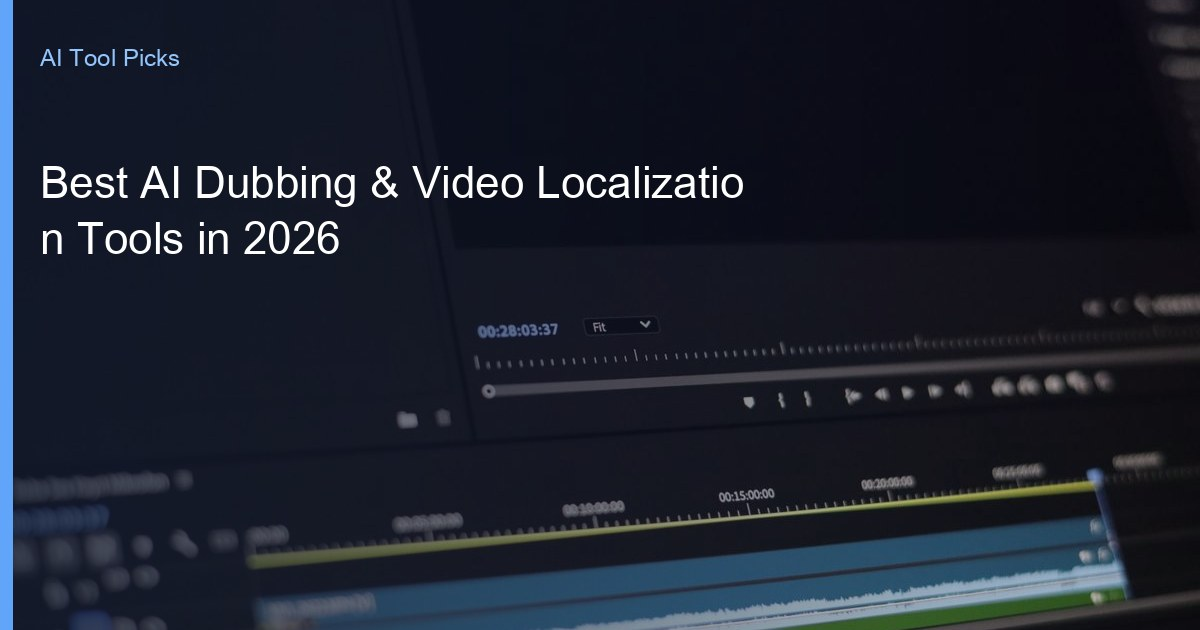
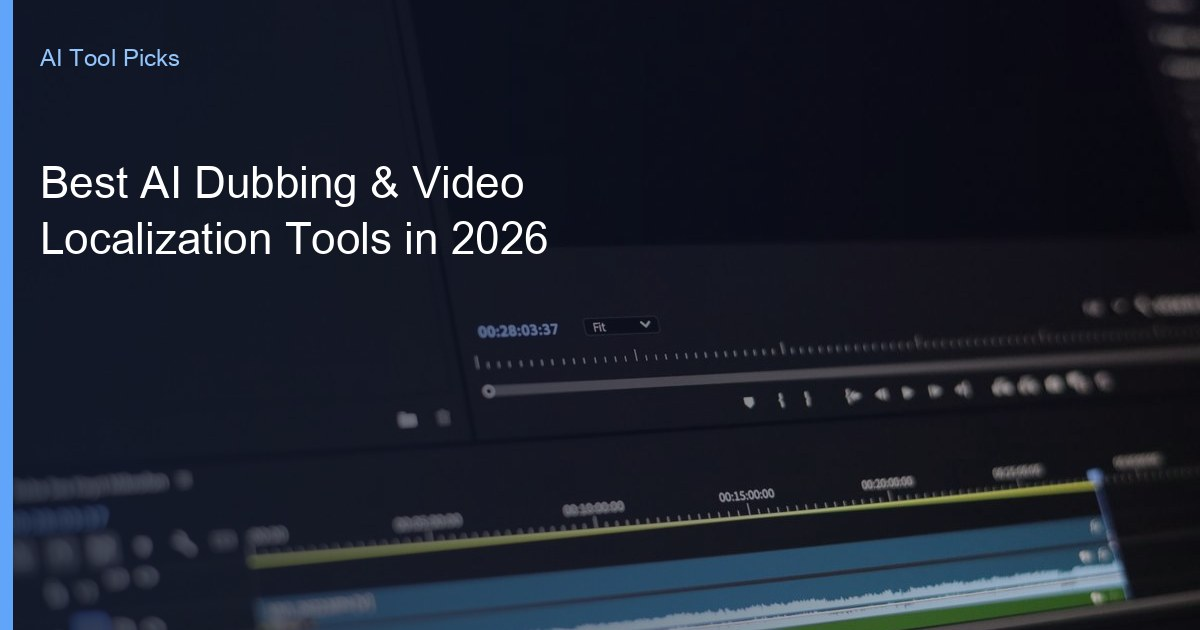
fix: hero image moved into article-content(below title, matches old articles); homepage cards reordered(newest first); og images regenerated with proper word-wrapping(no split words)

Changed region(s): [[0.0308, 0.2714, 0.6167, 0.4222]]

diff --git a/index-zh.html b/index-zh.html
@@ -184,7 +184,37 @@
                     </div>
                     <div class="pagination" id="pagination"></div>
                 </div>
-                <div class="category-grid" id="postsGrid">
+                <div class="category-grid" id="postsGrid"><article class="card post-card" data-category="video">
+                <a href="/posts/best-ai-dubbing-video-localization-tools-2026-zh.html" class="post-card-link">
+                    <div class="post-card-image">
+                        <img src="/images/og-best-ai-dubbing-video-localization-tools-2026-zh.jpg" alt="2026 年最佳 AI 配音与视频本地化工具" loading="lazy" onerror="this.style.display='none'">
+                    </div>
+                    <div class="post-card-content">
+                        <span class="post-card-tag">指南</span>
+                        <h3 class="post-card-title">2026 年最佳 AI 配音与视频本地化工具</h3>
+                        <time datetime="2026-08-05">2026 年 8 月 5 日</time>
+                        <span class="post-card-read-time"> · 约 10 分钟</span>
+                        <p class="post-card-excerpt">真正能帮你给视频配音、加字幕、做本地化、触达全球观众的 AI 工具，不用录音棚、不用配音员、不用翻译公司。</p>
+                        <span class="post-card-cta">阅读完整指南</span>
+                    </div>
+                </a>
+            </article>
+<article class="card post-card" data-category="writing">
+                <a href="/posts/best-ai-tools-for-newsletter-creators-2026-zh.html" class="post-card-link">
+                    <div class="post-card-image">
+                        <img src="/images/og-best-ai-tools-for-newsletter-creators-2026-zh.jpg" alt="2026 年最适合 Newsletter 创作者的 AI 工具" loading="lazy" onerror="this.style.display='none'">
+                    </div>
+                    <div class="post-card-content">
+                        <span class="post-card-tag">指南</span>
+                        <h3 class="post-card-title">2026 年最适合 Newsletter 创作者的 AI 工具</h3>
+                        <time datetime="2026-08-05">2026 年 8 月 5 日</time>
+                        <span class="post-card-read-time"> · 约 11 分钟</span>
+                        <p class="post-card-excerpt">真正能帮 Newsletter 创作者写得更快、调研更深、加上声音、并把每期内容改成视频的 AI 工具组合。</p>
+                        <span class="post-card-cta">阅读完整指南</span>
+                    </div>
+                </a>
+            </article>
+
 <article class="card post-card" data-category="productivity">
   <a href="/posts/chatbase-review-2026-zh.html" class="post-card-link">
     <div class="post-card-image">
@@ -1793,36 +1823,8 @@
                 </a>
             </article>
 
-            <article class="card post-card" data-category="writing">
-                <a href="/posts/best-ai-tools-for-newsletter-creators-2026-zh.html" class="post-card-link">
-                    <div class="post-card-image">
-                        <img src="/images/og-best-ai-tools-for-newsletter-creators-2026-zh.jpg" alt="2026 年最适合 Newsletter 创作者的 AI 工具" loading="lazy" onerror="this.style.display='none'">
-                    </div>
-                    <div class="post-card-content">
-                        <span class="post-card-tag">指南</span>
-                        <h3 class="post-card-title">2026 年最适合 Newsletter 创作者的 AI 工具</h3>
-                        <time datetime="2026-08-05">2026 年 8 月 5 日</time>
-                        <span class="post-card-read-time"> · 约 11 分钟</span>
-                        <p class="post-card-excerpt">真正能帮 Newsletter 创作者写得更快、调研更深、加上声音、并把每期内容改成视频的 AI 工具组合。</p>
-                        <span class="post-card-cta">阅读完整指南</span>
-                    </div>
-                </a>
-            </article>
-            <article class="card post-card" data-category="video">
-                <a href="/posts/best-ai-dubbing-video-localization-tools-2026-zh.html" class="post-card-link">
-                    <div class="post-card-image">
-                        <img src="/images/og-best-ai-dubbing-video-localization-tools-2026-zh.jpg" alt="2026 年最佳 AI 配音与视频本地化工具" loading="lazy" onerror="this.style.display='none'">
-                    </div>
-                    <div class="post-card-content">
-                        <span class="post-card-tag">指南</span>
-                        <h3 class="post-card-title">2026 年最佳 AI 配音与视频本地化工具</h3>
-                        <time datetime="2026-08-05">2026 年 8 月 5 日</time>
-                        <span class="post-card-read-time"> · 约 10 分钟</span>
-                        <p class="post-card-excerpt">真正能帮你给视频配音、加字幕、做本地化、触达全球观众的 AI 工具，不用录音棚、不用配音员、不用翻译公司。</p>
-                        <span class="post-card-cta">阅读完整指南</span>
-                    </div>
-                </a>
-            </article>
+            
+            
 </div>
         </section>
     </main>

diff --git a/index.html b/index.html
@@ -183,7 +183,37 @@
                     </div>
                     <div class="pagination" id="pagination"></div>
                 </div>
-                <div class="category-grid" id="postsGrid">
+                <div class="category-grid" id="postsGrid"><article class="card post-card" data-category="video">
+                <a href="/posts/best-ai-dubbing-video-localization-tools-2026.html" class="post-card-link">
+                    <div class="post-card-image">
+                        <img src="/images/og-best-ai-dubbing-video-localization-tools-2026.jpg" alt="Best AI Dubbing & Video Localization Tools in 2026" loading="lazy" onerror="this.style.display='none'">
+                    </div>
+                    <div class="post-card-content">
+                        <span class="post-card-tag">Guide</span>
+                        <h3 class="post-card-title">Best AI Dubbing & Video Localization Tools in 2026</h3>
+                        <time datetime="2026-08-05">August 5, 2026</time>
+                        <span class="post-card-read-time"> · 10 min read</span>
+                        <p class="post-card-excerpt">The AI tools that help you dub, subtitle, and localize video for global audiences without a studio, voice actor, or agency.</p>
+                        <span class="post-card-cta">Read full guide</span>
+                    </div>
+                </a>
+            </article>
+<article class="card post-card" data-category="writing">
+                <a href="/posts/best-ai-tools-for-newsletter-creators-2026.html" class="post-card-link">
+                    <div class="post-card-image">
+                        <img src="/images/og-best-ai-tools-for-newsletter-creators-2026.jpg" alt="Best AI Tools for Newsletter Creators in 2026" loading="lazy" onerror="this.style.display='none'">
+                    </div>
+                    <div class="post-card-content">
+                        <span class="post-card-tag">Guide</span>
+                        <h3 class="post-card-title">Best AI Tools for Newsletter Creators in 2026</h3>
+                        <time datetime="2026-08-05">August 5, 2026</time>
+                        <span class="post-card-read-time"> · 11 min read</span>
+                        <p class="post-card-excerpt">The AI stack that helps newsletter creators write faster, research smarter, add a voice, and repurpose issues into short video.</p>
+                        <span class="post-card-cta">Read full guide</span>
+                    </div>
+                </a>
+            </article>
+
 <article class="card post-card" data-category="productivity">
   <a href="/posts/chatbase-review-2026.html" class="post-card-link">
     <div class="post-card-image">
@@ -1700,36 +1730,8 @@
                 </a>
             </article>
 
-            <article class="card post-card" data-category="writing">
-                <a href="/posts/best-ai-tools-for-newsletter-creators-2026.html" class="post-card-link">
-                    <div class="post-card-image">
-                        <img src="/images/og-best-ai-tools-for-newsletter-creators-2026.jpg" alt="Best AI Tools for Newsletter Creators in 2026" loading="lazy" onerror="this.style.display='none'">
-                    </div>
-                    <div class="post-card-content">
-                        <span class="post-card-tag">Guide</span>
-                        <h3 class="post-card-title">Best AI Tools for Newsletter Creators in 2026</h3>
-                        <time datetime="2026-08-05">August 5, 2026</time>
-                        <span class="post-card-read-time"> · 11 min read</span>
-                        <p class="post-card-excerpt">The AI stack that helps newsletter creators write faster, research smarter, add a voice, and repurpose issues into short video.</p>
-                        <span class="post-card-cta">Read full guide</span>
-                    </div>
-                </a>
-            </article>
-            <article class="card post-card" data-category="video">
-                <a href="/posts/best-ai-dubbing-video-localization-tools-2026.html" class="post-card-link">
-                    <div class="post-card-image">
-                        <img src="/images/og-best-ai-dubbing-video-localization-tools-2026.jpg" alt="Best AI Dubbing & Video Localization Tools in 2026" loading="lazy" onerror="this.style.display='none'">
-                    </div>
-                    <div class="post-card-content">
-                        <span class="post-card-tag">Guide</span>
-                        <h3 class="post-card-title">Best AI Dubbing & Video Localization Tools in 2026</h3>
-                        <time datetime="2026-08-05">August 5, 2026</time>
-                        <span class="post-card-read-time"> · 10 min read</span>
-                        <p class="post-card-excerpt">The AI tools that help you dub, subtitle, and localize video for global audiences without a studio, voice actor, or agency.</p>
-                        <span class="post-card-cta">Read full guide</span>
-                    </div>
-                </a>
-            </article>
+            
+            
 </div>
         </section>
     </main>

diff --git a/posts/best-ai-dubbing-video-localization-tools-2026-zh.html b/posts/best-ai-dubbing-video-localization-tools-2026-zh.html
@@ -42,9 +42,6 @@
           <a href="/posts/best-ai-dubbing-video-localization-tools-2026.html">EN</a>
           <a href="/posts/best-ai-dubbing-video-localization-tools-2026-zh.html" class="active">中文</a>
         </nav>
-        <div class="card-image">
-          <img class="post-hero" src="/images/og-best-ai-dubbing-video-localization-tools-2026-zh.jpg" alt="2026 年最佳 AI 配音与视频本地化工具" width="1200" height="630">
-        </div>
         <nav class="article-breadcrumb" aria-label="Breadcrumb">
           <a href="/">首页</a>
           <a href="/category/video-zh.html">AI 视频</a>
@@ -63,6 +60,8 @@
 
     <div class="container">
       <article class="article-content">
+    <img class="post-hero" src="/images/og-best-ai-dubbing-video-localization-tools-2026-zh.jpg" alt="2026 年最佳 AI 配音与视频本地化工具" width="1200" height="630" loading="lazy">
+
         <p class="post-lead">一支视频只用一种语言，就只触达一种观众。同一支视频配上五种语言的配音和字幕，触达面就翻五倍。2026 年，这个扩展的成本已经塌方式下降&mdash;&mdash;不用录音棚、不用配音员、不用翻译公司。实测完这套组合，下面是真的能给你带来全球触达的那几个。</p>
 
         <div class="affiliate-note">

diff --git a/posts/best-ai-tools-for-newsletter-creators-2026-zh.html b/posts/best-ai-tools-for-newsletter-creators-2026-zh.html
@@ -42,9 +42,6 @@
           <a href="/posts/best-ai-tools-for-newsletter-creators-2026.html">EN</a>
           <a href="/posts/best-ai-tools-for-newsletter-creators-2026-zh.html" class="active">中文</a>
         </nav>
-        <div class="card-image">
-          <img class="post-hero" src="/images/og-best-ai-tools-for-newsletter-creators-2026-zh.jpg" alt="2026 年最适合 Newsletter 创作者的 AI 工具" width="1200" height="630">
-        </div>
         <nav class="article-breadcrumb" aria-label="Breadcrumb">
           <a href="/">首页</a>
           <a href="/category/writing-zh.html">AI 写作</a>
@@ -63,6 +60,8 @@
 
     <div class="container">
       <article class="article-content">
+    <img class="post-hero" src="/images/og-best-ai-tools-for-newsletter-creators-2026-zh.jpg" alt="2026 年最适合 Newsletter 创作者的 AI 工具" width="1200" height="630" loading="lazy">
+
         <p class="post-lead">Newsletter 又回来了，而且势头很实&mdash;&mdash;但一期好内容背后的活儿并没有变轻松。能稳定更新的创作者，并不是每个字都手写，而是跑了一套小型 AI 组合。经过实测，下面是 2026 年我们真正愿意放进 Newsletter 工作流的几个。</p>
 
         <div class="affiliate-note">

diff --git a/posts/best-ai-tools-for-newsletter-creators-2026.html b/posts/best-ai-tools-for-newsletter-creators-2026.html
@@ -42,9 +42,6 @@
           <a href="/posts/best-ai-tools-for-newsletter-creators-2026.html" class="active">EN</a>
           <a href="/posts/best-ai-tools-for-newsletter-creators-2026-zh.html">中文</a>
         </nav>
-        <div class="card-image">
-          <img class="post-hero" src="/images/og-best-ai-tools-for-newsletter-creators-2026.jpg" alt="Best AI tools for newsletter creators in 2026" width="1200" height="630">
-        </div>
         <nav class="article-breadcrumb" aria-label="Breadcrumb">
           <a href="/">Home</a>
           <a href="/category/writing.html">AI Writing</a>
@@ -63,6 +60,8 @@
 
     <div class="container">
       <article class="article-content">
+    <img class="post-hero" src="/images/og-best-ai-tools-for-newsletter-creators-2026.jpg" alt="Best AI tools for newsletter creators in 2026" width="1200" height="630" loading="lazy">
+
         <p class="post-lead">Newsletters are having a real moment again &mdash; but the work behind a good issue has not gotten easier. The creators who ship consistently are not writing every word by hand; they are running a small AI stack. After hands-on testing, these are the tools we would actually put in a newsletter workflow in 2026.</p>
 
         <div class="affiliate-note">

diff --git a/posts/best-ai-dubbing-video-localization-tools-2026.html b/posts/best-ai-dubbing-video-localization-tools-2026.html
@@ -42,9 +42,6 @@
           <a href="/posts/best-ai-dubbing-video-localization-tools-2026.html" class="active">EN</a>
           <a href="/posts/best-ai-dubbing-video-localization-tools-2026-zh.html">中文</a>
         </nav>
-        <div class="card-image">
-          <img class="post-hero" src="/images/og-best-ai-dubbing-video-localization-tools-2026.jpg" alt="Best AI dubbing and video localization tools in 2026" width="1200" height="630">
-        </div>
         <nav class="article-breadcrumb" aria-label="Breadcrumb">
           <a href="/">Home</a>
           <a href="/category/video.html">AI Video</a>
@@ -63,6 +60,8 @@
 
     <div class="container">
       <article class="article-content">
+    <img class="post-hero" src="/images/og-best-ai-dubbing-video-localization-tools-2026.jpg" alt="Best AI dubbing and video localization tools in 2026" width="1200" height="630" loading="lazy">
+
         <p class="post-lead">A video in one language reaches one audience. The same video dubbed and subtitled into five reaches five. In 2026 the cost of that expansion has collapsed &mdash; no studio, no voice actor, no agency. After testing the stack, here are the AI tools that actually deliver global reach.</p>
 
         <div class="affiliate-note">
